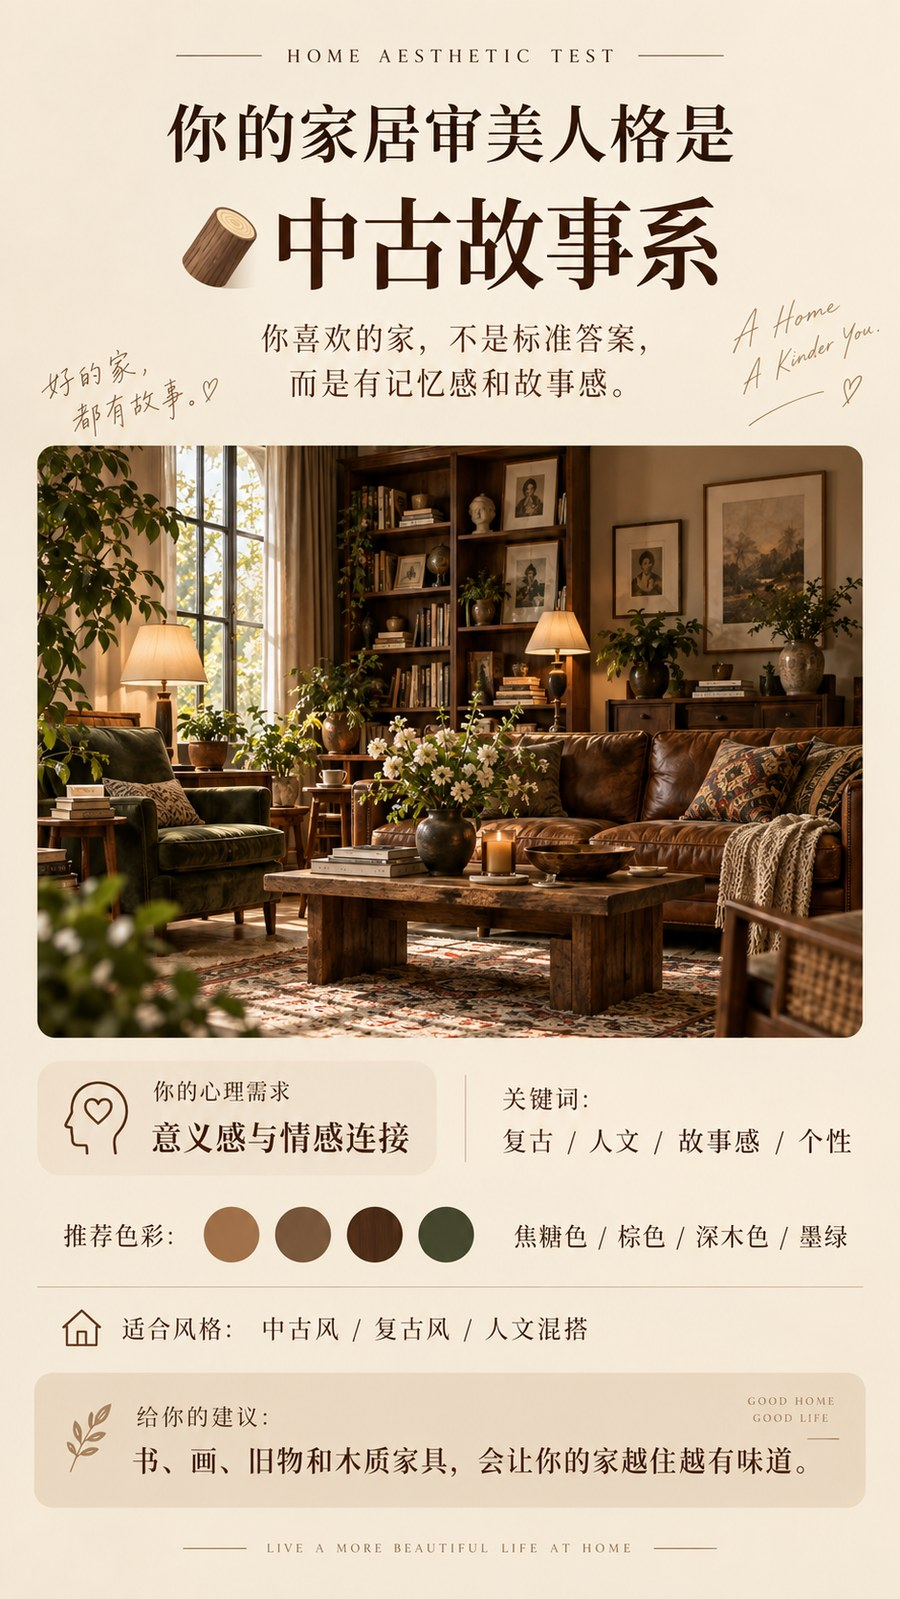
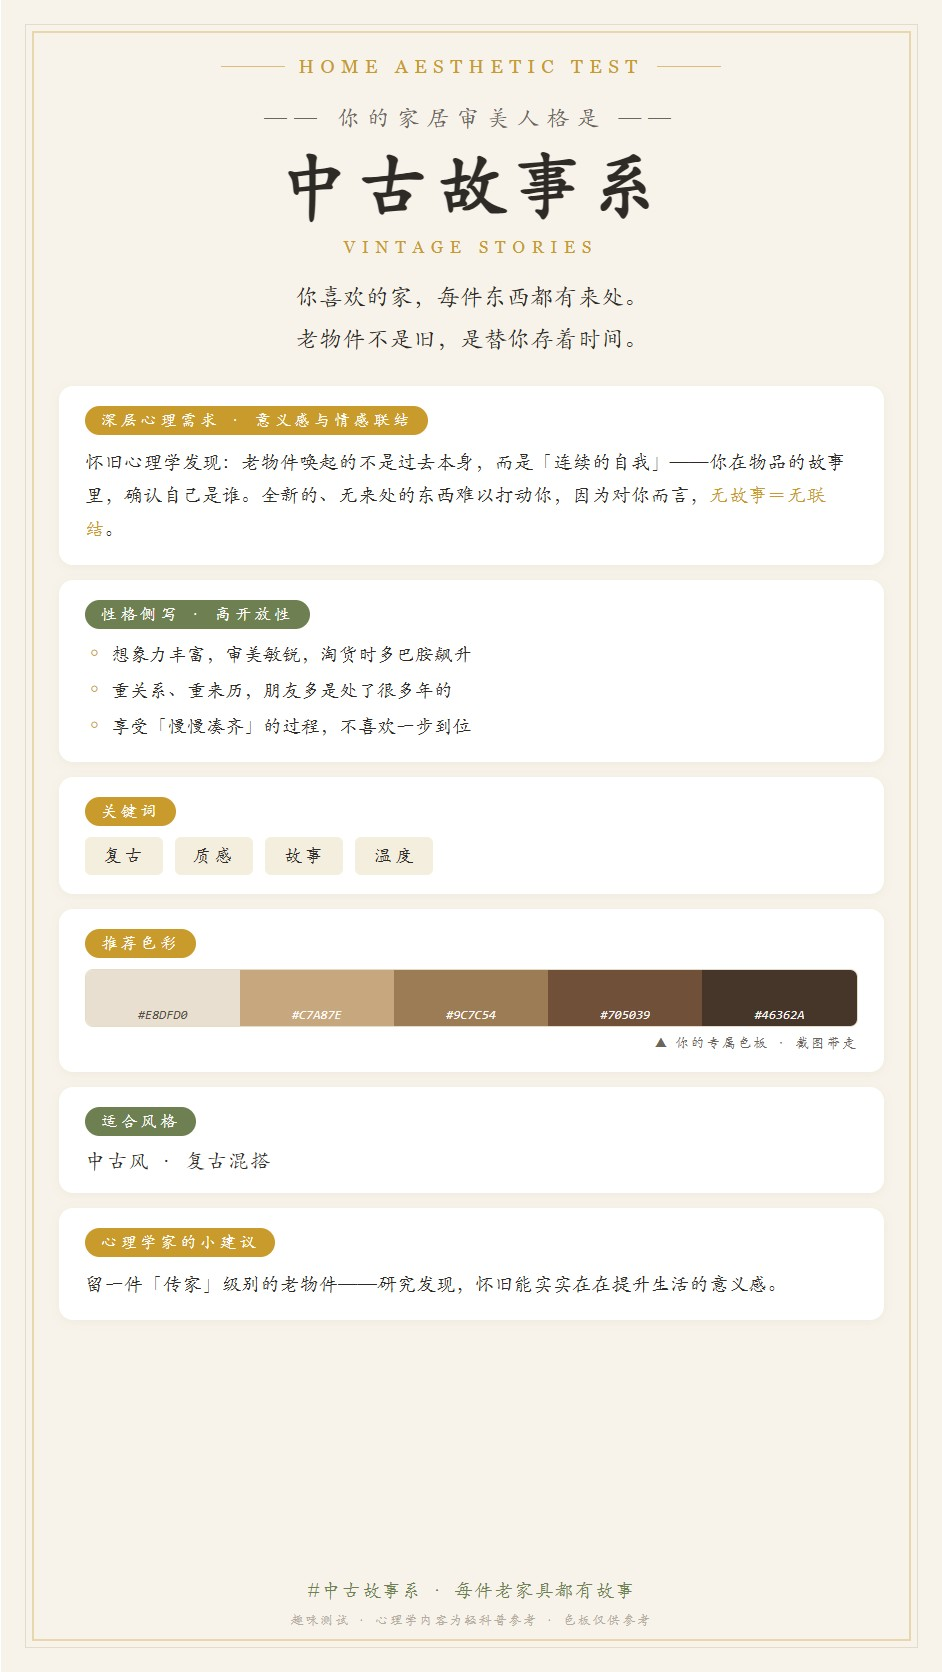
feat: 结果页升级心理学深度内容(环境心理学+大五人格+建议)

diff --git a/result_pages.html b/result_pages.html
@@ -1,0 +1,195 @@
+<!DOCTYPE html>
+<html lang="zh-CN">
+<head>
+<meta charset="UTF-8">
+<title>结果页增强版（复刻原版式+心理学深度）</title>
+<style>
+:root{
+  --bg:#F7F3EA; --ink:#2E2B26; --ink2:#6B655B;
+  --accent:#C99A2C; --green:#6E7F52; --line:#E4DCC8;
+  --card:#FFFFFF;
+}
+*{margin:0;padding:0;box-sizing:border-box}
+body{background:#E9E4D8;font-family:"Songti SC","STSong","SimSun",serif;color:var(--ink)}
+.kai{font-family:"Kaiti SC","STKaiti","KaiTi",serif}
+.deck{display:flex;flex-direction:column;gap:30px;padding:30px 0;align-items:center}
+
+.page{width:941px;height:1672px;background:var(--bg);position:relative;overflow:hidden;
+  padding:56px 58px 44px;display:flex;flex-direction:column}
+.page::before{content:"";position:absolute;inset:24px;border:1px solid var(--line);pointer-events:none}
+.page::after{content:"";position:absolute;inset:31px;border:2px solid var(--accent);opacity:.32;pointer-events:none}
+
+/* 眉题 */
+.mast{display:flex;align-items:center;justify-content:center;gap:14px}
+.mast::before,.mast::after{content:"";height:1px;width:64px;background:var(--accent);opacity:.6}
+.mast span{font-size:19px;letter-spacing:.34em;color:var(--accent);font-family:Georgia,serif}
+
+/* 标题区 */
+.t-you{margin-top:26px;text-align:center;font-size:23px;color:var(--ink2);letter-spacing:.3em}
+.t-name{margin-top:10px;text-align:center;font-size:72px;font-weight:bold;letter-spacing:.08em;line-height:1.2}
+.t-en{margin-top:8px;text-align:center;font-size:17px;letter-spacing:.4em;color:var(--accent);font-family:Georgia,serif}
+.t-sub{margin:20px auto 0;width:760px;text-align:center;font-size:23.5px;line-height:1.75;color:var(--ink)}
+
+/* 卡片 */
+.cards{margin-top:26px;display:flex;flex-direction:column;gap:15px;flex:1}
+.card{background:var(--card);border-radius:14px;padding:20px 26px 19px;box-shadow:0 2px 10px rgba(90,75,40,.05)}
+.tag{display:inline-block;font-size:16.5px;color:#fff;background:var(--accent);border-radius:20px;
+  padding:4px 16px;letter-spacing:.2em;margin-bottom:11px}
+.tag.green{background:var(--green)}
+.ct{font-size:19.5px;line-height:1.72;color:var(--ink)}
+.ct b{color:var(--accent);font-weight:normal}
+.ct .hl{color:var(--green)}
+
+/* 性格侧写三行 */
+.traits{list-style:none}
+.traits li{font-size:19px;line-height:1.62;padding-left:26px;position:relative;margin-top:5px}
+.traits li:first-child{margin-top:0}
+.traits li::before{content:"◦";position:absolute;left:6px;color:var(--accent);font-size:22px;line-height:1.3}
+
+/* 关键词胶囊 */
+.keys{display:flex;gap:12px;flex-wrap:wrap}
+.keys span{font-size:18.5px;letter-spacing:.14em;background:#F4EEDF;border-radius:6px;padding:7px 18px}
+
+/* 色板 */
+.pal{display:flex;height:58px;border-radius:8px;overflow:hidden;border:1px solid var(--line)}
+.pal i{flex:1;position:relative}
+.pal span{position:absolute;bottom:4px;left:0;right:0;text-align:center;font-size:12.5px;letter-spacing:.02em;font-family:Consolas,monospace}
+.palcap{margin-top:7px;font-size:14px;color:var(--ink2);text-align:right;letter-spacing:.12em}
+
+/* 风格行 */
+.fit{font-size:20.5px;letter-spacing:.06em}
+
+/* 晒点 */
+.hash{margin-top:6px;text-align:center;font-size:19px;color:var(--green);letter-spacing:.06em}
+.disc{margin-top:9px;text-align:center;font-size:13px;color:#B3AB9B;letter-spacing:.14em}
+</style>
+</head>
+<body>
+<div class="deck" id="deck"></div>
+
+<script>
+/* ═══════════ 数据区：副题/需求/关键词/风格保留原作者文案，心理学内容为新增轻科普 ═══════════ */
+const DATA = [
+{ name:"自然疗愈系", en:"NATURAL HEALING",
+  sub:"你喜欢的家，有阳光、木头和植物的味道。<br>在外面耗尽的电，回家能一格一格充回来。",
+  need:"情绪复原感",
+  psych:"注意力恢复理论认为，自然元素能让大脑紧绷的「定向注意力」得到休息——这就是你在绿植与原木的包围里，才真正放松的原因。你也天然亲近生命与自然（生物亲和假说），家对你而言，是一座<b>心理充电站</b>。",
+  big5:"高宜人性 + 高开放性",
+  traits:["共情力强，对材质与温度特别敏感","讨厌冲突，温柔是你和世界相处的方式","需要定期「回自然」回血，不然会莫名疲惫"],
+  keys:["自然","温暖","松弛","治愈"],
+  pal:["#F4F1EA","#DCCDB4","#A8B08C","#7C8B66","#5C4F3D"],
+  fit:"日式原木 · Japandi · 自然系慢生活",
+  tip:"心理学上，「照料」本身就是疗愈——养活一盆植物的过程，也在滋养你自己。",
+  hash:"#自然疗愈系 · 我家绿植比衣服多" },
+
+{ name:"极简高级系", en:"MINIMAL ELEGANCE",
+  sub:"你喜欢的家，安静、克制、有秩序。<br>东西越少，心越定。留白就是你的奢华。",
+  need:"秩序感与掌控感",
+  psych:"认知负荷理论：视野里的杂物越少，大脑的处理负担越轻——空无一物的台面对你来说不是冷淡，是<b>心理降噪</b>。空白在你眼里从来不是缺失，而是可能性。",
+  big5:"高尽责性",
+  traits:["自律、目标导向，混乱会真实消耗你的认知资源","对「未完成」与「堆积」的容忍度天生偏低——这不是挑剔，是认知特点","决策果断：买得少，但买得对"],
+  keys:["克制","留白","秩序","高级"],
+  pal:["#FFFFFF","#F2F0EC","#D6D3CC","#9C9891","#2E2B26"],
+  fit:"现代极简 · 北欧",
+  tip:"极简不是压抑欲望，是把资源留给真正重要的少数——先减物，再减心。",
+  hash:"#极简高级系 · 台面空无一物才是高级" },
+
+{ name:"奶油浪漫系", en:"CREAM ROMANCE",
+  sub:"你喜欢的家，是甜品店的样子。<br>弧线要圆，颜色要暖，光线要柔。氛围感是住出来的。",
+  need:"情绪安抚感",
+  psych:"环境心理学的「庇护感」理论：柔和的曲线与暖光，会唤起被包裹＝被保护的安全反应。你把「甜」当作心理防御的温柔版本——<b>用柔软，化解世界的坚硬</b>。",
+  big5:"高宜人性",
+  traits:["温暖体贴，是朋友们的情绪树洞","对冲突敏感，家里和气了，你才真正安心","「好看但没用」的东西对你真的有用——它安抚你的情绪"],
+  keys:["温暖","柔软","浪漫","治愈"],
+  pal:["#F5EFE6","#E8DCC8","#D9C49A","#B99A6B","#8C7351"],
+  fit:"奶油风 · 法式",
+  tip:"氛围感不是矫情，是你稳定情绪的真实工具——放心为温柔买单。",
+  hash:"#奶油浪漫系 · 我家就是甜品店" },
+
+{ name:"中古故事系", en:"VINTAGE STORIES",
+  sub:"你喜欢的家，每件东西都有来处。<br>老物件不是旧，是替你存着时间。",
+  need:"意义感与情感联结",
+  psych:"怀旧心理学发现：老物件唤起的不是过去本身，而是「连续的自我」——你在物品的故事里，确认自己是谁。全新的、无来处的东西难以打动你，因为对你而言，<b>无故事＝无联结</b>。",
+  big5:"高开放性",
+  traits:["想象力丰富，审美敏锐，淘货时多巴胺飙升","重关系、重来历，朋友多是处了很多年的","享受「慢慢凑齐」的过程，不喜欢一步到位"],
+  keys:["复古","质感","故事","温度"],
+  pal:["#E8DFD0","#C7A87E","#9C7C54","#705039","#46362A"],
+  fit:"中古风 · 复古混搭",
+  tip:"留一件「传家」级别的老物件——研究发现，怀旧能实实在在提升生活的意义感。",
+  hash:"#中古故事系 · 每件老家具都有故事" },
+
+{ name:"艺术表达系", en:"ART EXPRESSION",
+  sub:"你喜欢的家，是你本人的展馆。<br>颜色、图案、混搭——规矩是拿来打破的。",
+  need:"自我表达感",
+  psych:"心理学家贝尔克的「延展自我」理论：环境是自我的延伸——你的家就是你的自画像，色彩是你的语言。比起「和谐地被喜欢」，你更需要在空间里<b>被记住</b>。",
+  big5:"高开放性（显著）",
+  traits:["创造力强，对常规审美有天然的叛逆心","情绪充沛、需要出口——布置家，就是你的表达出口","别人眼里的「乱」，其实是你稳定的心理签名"],
+  keys:["大胆","色彩","张力","有趣"],
+  pal:["#F5E9D0","#F2B441","#E8743B","#C94F4F","#5B8C5A"],
+  fit:"多巴胺 · 波西米亚 · 混搭艺术",
+  tip:"别怕别人说「花」——研究显示，真正个性化的空间，才最能降低压力。",
+  hash:"#艺术表达系 · 快乐要看得见" },
+
+{ name:"东方雅韵系", en:"ORIENTAL ELEGANCE",
+  sub:"你喜欢的家，保留东方的安静与余韵。<br>少，但每件都站得住。",
+  need:"内在秩序与安宁",
+  psych:"「留白」给你的，是认知的喘息与想象的余地——东方美学的「境」，本质是一种<b>低刺激、高意蕴</b>的环境，让心自然慢下来。热闹是你的礼貌，安静才是你的真实。",
+  big5:"高尽责性 + 情绪稳定",
+  traits:["内敛自持，对「度」的把握近乎本能","回避过度刺激，社交之后需要独处回血","审美经得起时间，喜欢的东西很少换"],
+  keys:["留白","意境","器物","余韵"],
+  pal:["#F5F2EA","#E3DCCB","#B7A98C","#7E7259","#3C3A33"],
+  fit:"新中式 · 东方禅意",
+  tip:"给自己留一个「一盏茶」的角落——正念研究说，仪式感是最省力的冥想。",
+  hash:"#东方雅韵系 · 安静但站得住" }
+];
+/* ═══════════ 数据区结束 ═══════════ */
+
+const deck = document.getElementById("deck");
+DATA.forEach((d,i)=>{
+  const p = document.createElement("div");
+  p.className = "page kai";
+  p.setAttribute("data-name", "r" + (i+1));
+  p.innerHTML = `
+    <div class="mast"><span>HOME AESTHETIC TEST</span></div>
+    <div class="t-you">—— 你的家居审美人格是 ——</div>
+    <div class="t-name">${d.name}</div>
+    <div class="t-en">${d.en}</div>
+    <div class="t-sub">${d.sub}</div>
+    <div class="cards">
+      <div class="card">
+        <span class="tag">深层心理需求 · ${d.need}</span>
+        <div class="ct">${d.psych}</div>
+      </div>
+      <div class="card">
+        <span class="tag green">性格侧写 · ${d.big5}</span>
+        <ul class="traits">${d.traits.map(t=>`<li>${t}</li>`).join("")}</ul>
+      </div>
+      <div class="card">
+        <span class="tag">关键词</span>
+        <div class="keys">${d.keys.map(k=>`<span>${k}</span>`).join("")}</div>
+      </div>
+      <div class="card">
+        <span class="tag">推荐色彩</span>
+        <div class="pal">${d.pal.map(c=>{
+          const L = [1,3,5].map(x=>parseInt(c.slice(x,x+2),16)).reduce((a,v)=>a+v,0);
+          const tc = L > 500 ? "rgba(60,55,45,.85)" : "rgba(255,255,255,.95)";
+          return `<i style="background:${c}"><span style="color:${tc}">${c}</span></i>`;
+        }).join("")}</div>
+        <div class="palcap">▲ 你的专属色板 · 截图带走</div>
+      </div>
+      <div class="card">
+        <span class="tag green">适合风格</span>
+        <div class="fit">${d.fit}</div>
+      </div>
+      <div class="card">
+        <span class="tag">心理学家的小建议</span>
+        <div class="ct">${d.tip}</div>
+      </div>
+    </div>
+    <div class="hash">${d.hash}</div>
+    <div class="disc">趣味测试 · 心理学内容为轻科普参考 · 色板仅供参考</div>`;
+  deck.appendChild(p);
+});
+</script>
+</body>
+</html>
